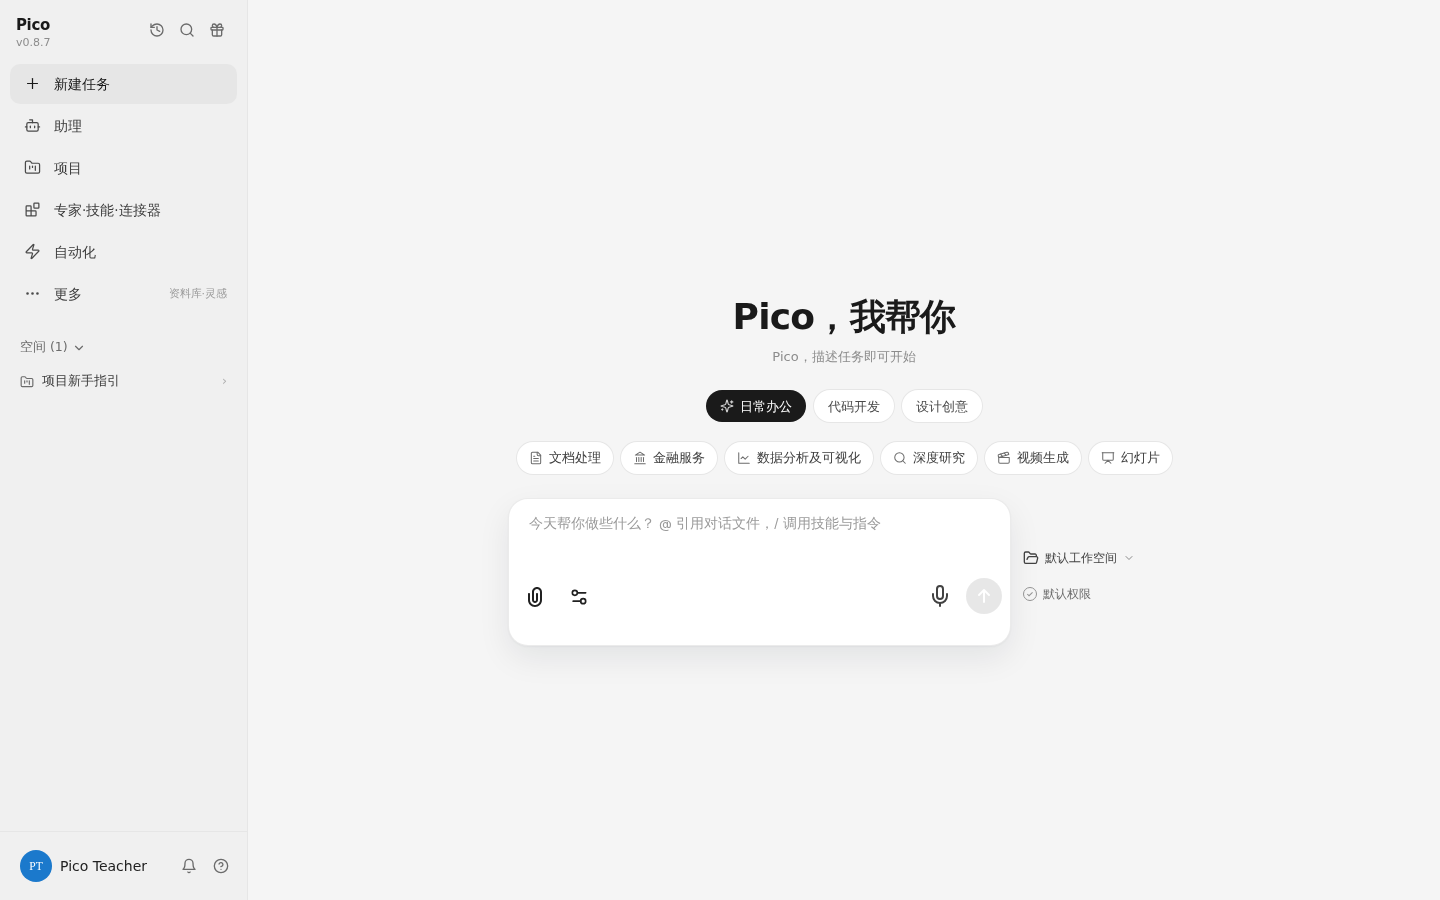
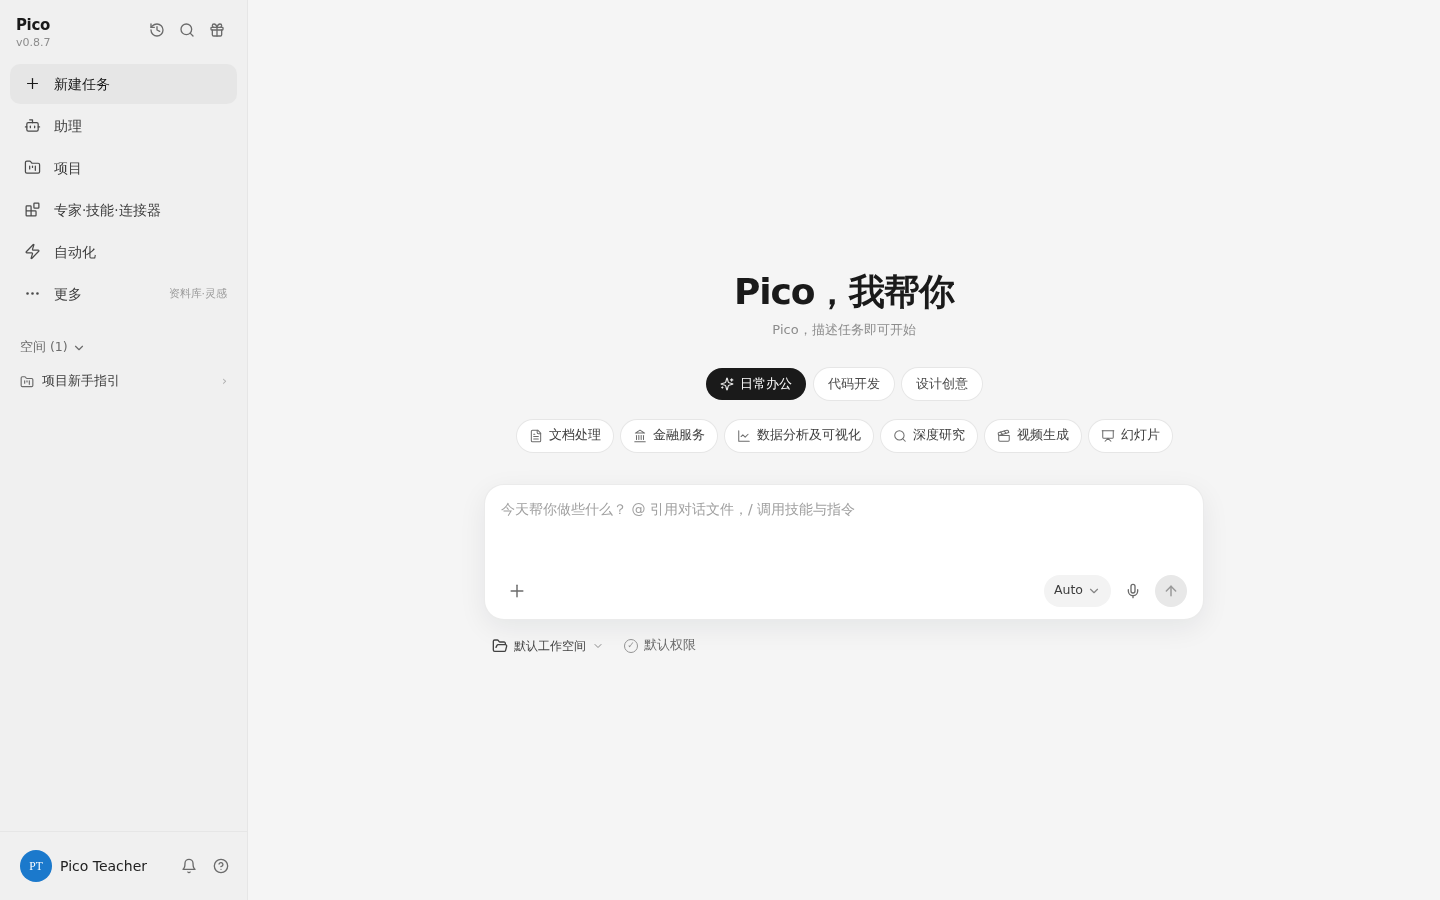
feat(ui): Landing-owned pixel composer matching WorkBuddy home
Hero, scene pills, chips, large input card with +/Auto/send,
workspace + permission under card. Single 248px left nav.

diff --git a/apps/librechat/client/src/components/Chat/Landing.tsx b/apps/librechat/client/src/components/Chat/Landing.tsx
@@ -1,5 +1,6 @@
 /**
- * Pico home — pixel-aligned WorkBuddy task home (clean-room layout).
+ * Pico home — pixel layout aligned to WorkBuddy reference (clean-room).
+ * Owns hero + scene chips + primary composer chrome on landing.
  */
 import { useCallback, useMemo, useState } from 'react';
 import {
@@ -10,10 +11,15 @@ import {
   Clapperboard,
   Presentation,
   Sparkles,
+  Plus,
+  Mic,
+  ArrowUp,
+  ChevronDown,
   type LucideIcon,
 } from 'lucide-react';
 import { useOptionalChatFormContext } from '~/Providers';
-import { useLocalize, useAuthContext } from '~/hooks';
+import { useAuthContext } from '~/hooks';
+import WorkspaceSelector from '~/components/Chat/Input/WorkspaceSelector';
 import { cn } from '~/utils';
 
 type SceneId = 'office' | 'code' | 'design';
@@ -77,59 +83,52 @@ const CHIPS: Chip[] = [
   },
 ];
 
-export default function Landing({ centerFormOnLanding: _centerFormOnLanding }: { centerFormOnLanding: boolean }) {
+const PLACEHOLDER = '今天帮你做些什么？ @ 引用对话文件，/ 调用技能与指令';
+
+export default function Landing({
+  centerFormOnLanding: _c,
+}: {
+  centerFormOnLanding: boolean;
+}) {
   const { user } = useAuthContext();
-  const localize = useLocalize();
   const form = useOptionalChatFormContext();
   const [scene, setScene] = useState<SceneId>('office');
+  const [text, setText] = useState('');
 
   const visibleChips = useMemo(() => CHIPS.filter((c) => c.scenes.includes(scene)), [scene]);
 
-  const fillPrompt = useCallback(
-    (prompt: string) => {
-      form?.setValue('text', prompt, { shouldDirty: true, shouldTouch: true });
-      requestAnimationFrame(() => {
-        const el = document.querySelector<HTMLTextAreaElement>(
-          'textarea[data-testid="text-input"]',
-        );
-        if (!el) {
-          return;
-        }
-        const native = Object.getOwnPropertyDescriptor(
-          window.HTMLTextAreaElement.prototype,
-          'value',
-        )?.set;
-        native?.call(el, prompt);
-        el.dispatchEvent(new Event('input', { bubbles: true }));
-        el.focus();
-        el.selectionStart = el.value.length;
-        el.selectionEnd = el.value.length;
-      });
+  const syncForm = useCallback(
+    (value: string) => {
+      setText(value);
+      form?.setValue('text', value, { shouldDirty: true, shouldTouch: true });
     },
     [form],
   );
 
-  const name = user?.name?.split(' ')[0] || user?.username || '';
+  const fillPrompt = useCallback(
+    (prompt: string) => {
+      syncForm(prompt);
+      requestAnimationFrame(() => {
+        document.getElementById('pico-wb-home-input')?.focus();
+      });
+    },
+    [syncForm],
+  );
+
+  const name = user?.name?.split(/\s+/)[0] || '';
 
   return (
-    <div className="pico-wb-landing pointer-events-auto flex w-full flex-shrink-0 flex-col items-center px-4 pt-8 sm:pt-14">
+    <div className="pico-wb-landing flex w-full flex-col items-center px-6 pb-4 pt-10 sm:pt-16">
       <div className="flex w-full max-w-[720px] flex-col items-center">
-        {/* Title — WorkBuddy-scale hero */}
-        <h1 className="text-center text-[32px] font-semibold leading-tight tracking-[-0.02em] text-[#1a1a1a] sm:text-[36px] dark:text-text-primary">
+        <h1 className="text-center text-[32px] font-semibold leading-none tracking-[-0.03em] text-[#1a1a1a] sm:text-[36px] dark:text-text-primary">
           Pico，我帮你
         </h1>
         {name ? (
-          <p className="mt-2 text-center text-[13px] text-[#8c8c8c]">
-            {name}，描述任务即可开始
-          </p>
+          <p className="mt-2.5 text-[13px] text-[#8c8c8c]">{name}，描述任务即可开始</p>
         ) : null}
 
         {/* Scene pills */}
-        <div
-          className="mt-6 flex flex-wrap items-center justify-center gap-2"
-          role="tablist"
-          aria-label="场景"
-        >
+        <div className="mt-7 flex flex-wrap items-center justify-center gap-2" role="tablist">
           {SCENES.map((s) => {
             const active = scene === s.id;
             return (
@@ -140,21 +139,21 @@ export default function Landing({ centerFormOnLanding: _centerFormOnLanding }: {
                 aria-selected={active}
                 onClick={() => setScene(s.id)}
                 className={cn(
-                  'inline-flex h-8 items-center gap-1.5 rounded-full px-3.5 text-[13px] transition-colors',
+                  'inline-flex h-[32px] items-center gap-1.5 rounded-full px-3.5 text-[13px]',
                   active
                     ? 'bg-[#1a1a1a] font-medium text-white'
-                    : 'bg-white font-normal text-[#4a4a4a] ring-1 ring-black/[0.06] hover:bg-[#fafafa]',
+                    : 'bg-white text-[#4a4a4a] shadow-[0_0_0_1px_rgba(0,0,0,0.06)] hover:bg-[#fafafa]',
                 )}
               >
-                {s.id === 'office' && <Sparkles className="h-3.5 w-3.5 opacity-80" />}
+                {s.id === 'office' ? <Sparkles className="h-3.5 w-3.5 opacity-90" /> : null}
                 {s.label}
               </button>
             );
           })}
         </div>
 
-        {/* Capability chips — single row wrap like reference */}
-        <div className="mt-5 flex w-full max-w-[680px] flex-wrap items-center justify-center gap-2">
+        {/* Capability chips */}
+        <div className="mt-5 flex w-full flex-wrap items-center justify-center gap-2">
           {visibleChips.map((chip) => {
             const Icon = chip.icon;
             return (
@@ -162,16 +161,122 @@ export default function Landing({ centerFormOnLanding: _centerFormOnLanding }: {
                 key={chip.id}
                 type="button"
                 onClick={() => fillPrompt(chip.prompt)}
-                className="inline-flex h-8 items-center gap-1.5 rounded-full bg-white px-3 text-[12.5px] text-[#3d3d3d] ring-1 ring-black/[0.06] transition hover:bg-[#fafafa] hover:ring-black/10"
+                className="inline-flex h-[32px] items-center gap-1.5 rounded-full bg-white px-3 text-[12.5px] text-[#3d3d3d] shadow-[0_0_0_1px_rgba(0,0,0,0.06)] hover:bg-[#fafafa]"
               >
-                <Icon className="h-3.5 w-3.5 shrink-0 text-[#6b6b6b]" strokeWidth={1.75} />
+                <Icon className="h-3.5 w-3.5 text-[#6b6b6b]" strokeWidth={1.75} />
                 {chip.label}
               </button>
             );
           })}
         </div>
 
-        <p className="mt-3 text-[11px] text-[#b0b0b0]">{localize('com_ui_task_chip_hint')}</p>
+        {/* PIXEL composer card — matches reference input block */}
+        <div className="mt-8 w-full">
+          <div
+            className="rounded-[20px] border border-black/[0.08] bg-white px-4 pb-3 pt-3.5 shadow-[0_8px_28px_rgba(15,23,42,0.07)]"
+            data-testid="pico-wb-home-composer"
+          >
+            <textarea
+              id="pico-wb-home-input"
+              value={text}
+              onChange={(e) => syncForm(e.target.value)}
+              onKeyDown={(e) => {
+                if (e.key === 'Enter' && !e.shiftKey) {
+                  // let ChatForm own submit; focus real submit path by dispatching
+                  e.preventDefault();
+                  const real = document.querySelector<HTMLTextAreaElement>(
+                    'textarea[data-testid="text-input"]',
+                  );
+                  if (real) {
+                    const native = Object.getOwnPropertyDescriptor(
+                      window.HTMLTextAreaElement.prototype,
+                      'value',
+                    )?.set;
+                    native?.call(real, text);
+                    real.dispatchEvent(new Event('input', { bubbles: true }));
+                    // try click send
+                    document.querySelector<HTMLButtonElement>('[data-testid="send-button"]')?.click();
+                  }
+                }
+              }}
+              placeholder={PLACEHOLDER}
+              rows={3}
+              className="w-full resize-none border-0 bg-transparent text-[14px] leading-[1.55] text-[#1a1a1a] outline-none placeholder:text-[#a0a0a0]"
+            />
+            <div className="mt-1 flex items-center justify-between gap-2">
+              <button
+                type="button"
+                className="flex h-8 w-8 items-center justify-center rounded-full text-[#6b6b6b] hover:bg-black/[0.04]"
+                aria-label="添加"
+                onClick={() =>
+                  document.querySelector<HTMLButtonElement>('[data-testid="attach-file"]')?.click()
+                }
+              >
+                <Plus className="h-5 w-5" strokeWidth={1.75} />
+              </button>
+              <div className="flex items-center gap-1.5">
+                <button
+                  type="button"
+                  className="inline-flex h-8 items-center gap-1 rounded-full bg-[#f3f3f3] px-2.5 text-[12.5px] font-medium text-[#3d3d3d]"
+                >
+                  Auto
+                  <ChevronDown className="h-3.5 w-3.5 opacity-60" />
+                </button>
+                <button
+                  type="button"
+                  className="flex h-8 w-8 items-center justify-center rounded-full text-[#6b6b6b] hover:bg-black/[0.04]"
+                  aria-label="语音"
+                >
+                  <Mic className="h-4 w-4" />
+                </button>
+                <button
+                  type="button"
+                  className={cn(
+                    'flex h-8 w-8 items-center justify-center rounded-full transition-colors',
+                    text.trim()
+                      ? 'bg-[#1a1a1a] text-white'
+                      : 'bg-[#e8e8e8] text-[#9a9a9a]',
+                  )}
+                  aria-label="发送"
+                  disabled={!text.trim()}
+                  onClick={() => {
+                    const real = document.querySelector<HTMLTextAreaElement>(
+                      'textarea[data-testid="text-input"]',
+                    );
+                    if (real) {
+                      const native = Object.getOwnPropertyDescriptor(
+                        window.HTMLTextAreaElement.prototype,
+                        'value',
+                      )?.set;
+                      native?.call(real, text);
+                      real.dispatchEvent(new Event('input', { bubbles: true }));
+                      form?.setValue('text', text, { shouldDirty: true });
+                      document
+                        .querySelector<HTMLButtonElement>('[data-testid="send-button"]')
+                        ?.click();
+                    }
+                  }}
+                >
+                  <ArrowUp className="h-4 w-4" strokeWidth={2.25} />
+                </button>
+              </div>
+            </div>
+          </div>
+
+          {/* Under-card: 选择工作空间 + 默认权限 */}
+          <div className="mt-2.5 flex flex-wrap items-center gap-1">
+            <WorkspaceSelector />
+            <button
+              type="button"
+              className="inline-flex h-8 items-center gap-1.5 rounded-lg px-2 text-[12.5px] font-medium text-[#6b6b6b] hover:bg-black/[0.04]"
+            >
+              <span className="inline-flex h-3.5 w-3.5 items-center justify-center rounded-full border border-current text-[9px] opacity-70">
+                ✓
+              </span>
+              默认权限
+            </button>
+          </div>
+        </div>
       </div>
     </div>
   );

diff --git a/apps/librechat/client/src/components/Chat/ChatView.tsx b/apps/librechat/client/src/components/Chat/ChatView.tsx
@@ -136,9 +136,10 @@ function ChatView({ index = 0, project }: { index?: number; project?: TChatProje
                     )}
                   >
                     {isProjectLandingPage && project && <ProjectLandingChip project={project} />}
-                    {/* Workbench: scene chips on Landing replace generic starters */
-                    false && isLandingPage && <ConversationStarters />}
-                    <ChatForm index={index} placeholder={chatFormPlaceholder} />
+                    {/* Pixel home: Landing owns visible composer; keep ChatForm mounted for submit plumbing */}
+                    <div className={isLandingPage ? 'pointer-events-none fixed left-[-9999px] top-0 h-0 w-0 overflow-hidden opacity-0' : 'w-full'}>
+                      <ChatForm index={index} placeholder={chatFormPlaceholder} />
+                    </div>
                     {!isLandingPage && <Footer />}
                   </div>
                 </div>
